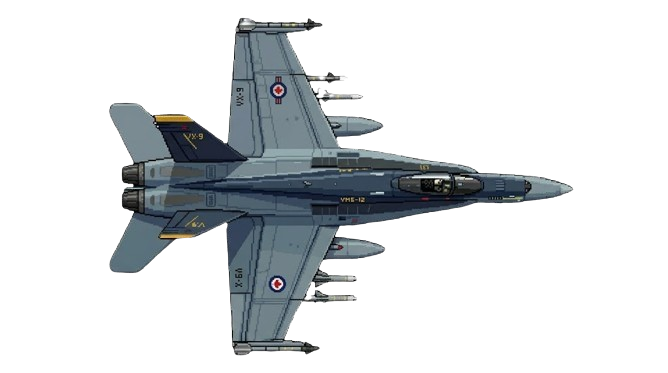
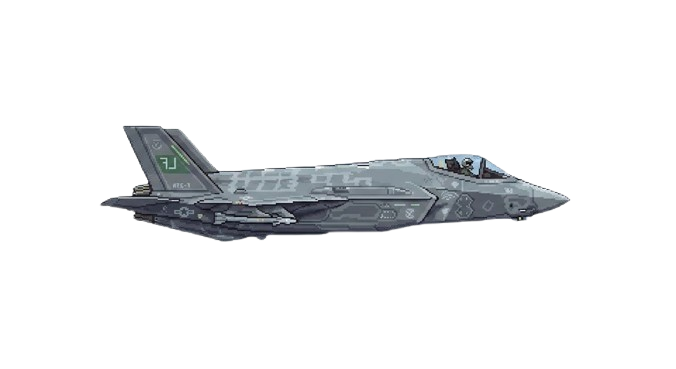
last

Changed region(s): [[0.1497, 0.0298, 0.8683, 0.9539]]

diff --git a/index.html b/index.html
@@ -3,13 +3,13 @@
 <head>
     <meta charset="UTF-8">
     <meta name="viewport" content="width=device-width, initial-scale=1.0, maximum-scale=1.0, user-scalable=no">
-    <title>صقور السماء - نسخة دقة العرض</title>
+    <title>صقور السماء - نسخة مخصصة</title>
     <style>
         body, html { margin: 0; padding: 0; overflow: hidden; width: 100%; height: 100%; background: #000; font-family: sans-serif; }
         
         #game-view {
             width: 100vw; height: 100vh;
-            background-image: url('im1.jpeg');
+            background-image: url('im1.png');
             background-size: cover; background-position: center;
             position: relative; display: none;
         }
@@ -18,44 +18,38 @@
             background: rgba(255, 255, 255, 0.15); backdrop-filter: blur(4px); z-index: 1;
         }
 
-        /* شاشة البداية */
-        #start-screen {
-            position: fixed; top: 0; left: 0; width: 100%; height: 100%;
-            background: linear-gradient(rgba(0,0,0,0.6), rgba(0,0,0,0.6)), url('im1.png');
-            background-size: cover; display: flex; flex-direction: column;
-            align-items: center; justify-content: center; color: white; z-index: 5000;
+        /* إرشادات تظهر فقط على الكمبيوتر */
+        #instructions-bar {
+            position: absolute; top: 15px; left: 50%; transform: translateX(-50%);
+            z-index: 1100; background: rgba(0, 0, 0, 0.5); padding: 8px 25px;
+            border-radius: 30px; color: white; font-size: 14px;
+            border: 1px solid rgba(255, 255, 255, 0.2);
+            pointer-events: none; display: flex; gap: 20px;
         }
-        #start-screen h1 { font-size: 80px; margin: 0; }
-        #more-text { display: none; margin: 15px 0; color: #ffd700; }
-        .btn-main { padding: 15px 60px; font-size: 24px; cursor: pointer; border-radius: 50px; border: none; background: #28a745; color: white; margin: 10px; }
-        .btn-secondary { background: none; border: 2px solid white; color: white; padding: 8px 20px; cursor: pointer; border-radius: 5px; }
+        .key-cap { 
+            background: #fff; color: #000; padding: 2px 8px; 
+            border-radius: 4px; font-weight: bold; margin-left: 5px;
+        }
 
-        /* العناصر */
         #player { width: 110px; position: absolute; left: 40px; z-index: 100; }
         .bullet { width: 55px; position: absolute; z-index: 90; }
-        
-        /* تعديل عرض المسيرة ليكون أنحف (80px) لتقليل منطقة التصادم الجانبية */
-        .drone { 
-            width: 80px; 
-            height: auto; 
-            position: absolute; 
-            z-index: 95; 
-            object-fit: contain;
-        }
+        .drone { width: 80px; height: auto; position: absolute; z-index: 95; object-fit: contain; }
 
-        #ui-layer { position: absolute; top: 20px; right: 20px; color: white; font-size: 28px; font-weight: bold; z-index: 1000; background: rgba(0,0,0,0.6); padding: 10px 30px; border-radius: 50px; }
+        #ui-layer { position: absolute; top: 15px; right: 20px; color: white; font-size: 24px; font-weight: bold; z-index: 1200; background: rgba(0,0,0,0.6); padding: 5px 20px; border-radius: 50px; }
 
-        #end-screen {
+        #start-screen, #end-screen {
             position: fixed; top: 0; left: 0; width: 100%; height: 100%;
-            background: rgba(0, 0, 0, 0.9); display: none; flex-direction: column;
-            align-items: center; justify-content: center; color: white; z-index: 6000;
+            display: flex; flex-direction: column; align-items: center; justify-content: center; color: white; z-index: 5000;
         }
+        #start-screen { background: linear-gradient(rgba(0,0,0,0.6), rgba(0,0,0,0.6)), url('im1.png'); background-size: cover; }
+        #end-screen { background: rgba(0, 0, 0, 0.9); display: none; z-index: 6000; }
+
+        .btn-main { padding: 15px 60px; font-size: 24px; cursor: pointer; border-radius: 50px; border: none; background: #28a745; color: white; margin: 10px; }
 
         #mobile-controls {
             position: fixed; bottom: 30px; width: 100%; display: none;
             justify-content: space-between; padding: 0 40px; box-sizing: border-box; z-index: 2000;
         }
-        .nav-btns { display: flex; flex-direction: column; gap: 20px; }
         .joy-btn {
             width: 85px; height: 85px; background: rgba(255,255,255,0.25);
             border: 2px solid #fff; border-radius: 50%; display: flex;
@@ -64,7 +58,11 @@
         }
         #btn-fire { width: 120px; height: 120px; background: rgba(255, 0, 0, 0.5); }
 
-        @media (max-width: 1024px) { #mobile-controls { display: flex; } }
+        /* إخفاء الإرشادات تماماً في الجوال */
+        @media (max-width: 1024px) { 
+            #mobile-controls { display: flex; } 
+            #instructions-bar { display: none !important; } 
+        }
     </style>
 </head>
 <body>
@@ -72,16 +70,21 @@
     <div id="start-screen">
         <h1>صقور السماء</h1>
         <button class="btn-main" onclick="initGame()">ابدأ اللعب</button>
-        <button class="btn-secondary" onclick="document.getElementById('more-text').style.display='block'">اضغط لرؤية رسالة الشكر</button>
-        <h6 id="more-text">شكرا لجميع الكوادر التي تعمل في هاته البلاد المباركة لتفانيهم بأعمالهم</h6>
     </div>
 
     <div id="game-view">
+        <!-- تظهر فقط على الكمبيوتر -->
+        <div id="instructions-bar">
+            <span><span class="key-cap">W</span>للأعلى</span>
+            <span><span class="key-cap">S</span>للأسفل</span>
+            <span><span class="key-cap">Space</span>للطلق</span>
+        </div>
+
         <div id="ui-layer">النقاط: <span id="score-val">0</span></div>
         <img src="im2.png" id="player" alt="الطائرة">
         
         <div id="mobile-controls">
-            <div class="nav-btns">
+            <div style="display: flex; flex-direction: column; gap: 20px;">
                 <div class="joy-btn" id="m-up">W</div>
                 <div class="joy-btn" id="m-down">S</div>
             </div>
@@ -90,7 +93,7 @@
     </div>
 
     <div id="end-screen">
-        <h1 style="color: #ff4d4d; font-size: 50px;">انتهت المهمة!</h1>
+        <h1 style="color: #ff4d4d; font-size: 50px;">تحطمت الطائرة!</h1>
         <h2 id="final-score">النقاط: 0</h2>
         <button class="btn-main" onclick="location.reload()">إعادة المحاولة</button>
     </div>
@@ -107,6 +110,8 @@
     let drone = null;
     let droneSpeed = 5;
     const playerStep = 13;
+    let canFire = true;
+    const fireCooldown = 250;
 
     const activeKeys = {};
     window.addEventListener('keydown', (e) => activeKeys[e.code] = true);
@@ -130,19 +135,29 @@
     function gameLoop() {
         if (!isLive) return;
 
-        if (activeKeys['KeyW'] || touchUp) playerY -= playerStep;
-        if (activeKeys['KeyS'] || touchDown) playerY += playerStep;
+        let moving = false;
+        if (activeKeys['KeyW'] || touchUp) {
+            playerY -= playerStep;
+            player.src = 'im5.png';
+            moving = true;
+        } 
+        else if (activeKeys['KeyS'] || touchDown) {
+            playerY += playerStep;
+            player.src = 'im6.png';
+            moving = true;
+        }
+
+        if (!moving) player.src = 'im2.png';
 
         if (playerY < 0) playerY = 0;
         if (playerY > window.innerHeight - 110) playerY = window.innerHeight - 110;
         player.style.top = playerY + 'px';
 
-        if (activeKeys['Space']) { fire(); activeKeys['Space'] = false; }
+        if (activeKeys['Space']) fire();
 
         if (drone && drone.dataset.falling !== "true") {
             let droneX = parseFloat(drone.style.right);
             drone.style.right = (droneX + droneSpeed) + 'px';
-
             if (checkHit(player, drone)) terminateGame();
             if (droneX > window.innerWidth) spawnDrone();
         }
@@ -150,6 +165,9 @@
     }
 
     function fire() {
+        if (!canFire || !isLive) return;
+        canFire = false;
+        
         const b = document.createElement('img');
         b.src = 'im3.png';
         b.className = 'bullet';
@@ -171,6 +189,8 @@
             }
             if (bLeft > window.innerWidth) { clearInterval(moveB); b.remove(); }
         }, 20);
+
+        setTimeout(() => canFire = true, fireCooldown);
     }
 
     function spawnDrone() {
@@ -190,7 +210,6 @@
         target.dataset.falling = "true";
         drone = null;
         let fallY = 0, fallX = parseFloat(target.style.right), rot = 0;
-
         let fallInterval = setInterval(() => {
             fallY += 7; fallX += 3; rot += 10;
             target.style.top = (parseFloat(target.style.top) + fallY) + 'px';
@@ -207,6 +226,7 @@
 
     function terminateGame() {
         isLive = false;
+        player.src = 'im2.png';
         document.getElementById('final-score').innerText = "النقاط: " + score;
         endScreen.style.display = 'flex';
         let pFall = 0, pRot = 0;
@@ -221,13 +241,7 @@
     function checkHit(obj1, obj2) {
         let r1 = obj1.getBoundingClientRect();
         let r2 = obj2.getBoundingClientRect();
-        
-        return !(
-            r1.top > r2.bottom || 
-            r1.bottom < r2.top || 
-            r1.right < r2.left || 
-            r1.left > r2.right
-        );
+        return !(r1.top > r2.bottom || r1.bottom < r2.top || r1.right < r2.left || r1.left > r2.right);
     }
 </script>
 </body>